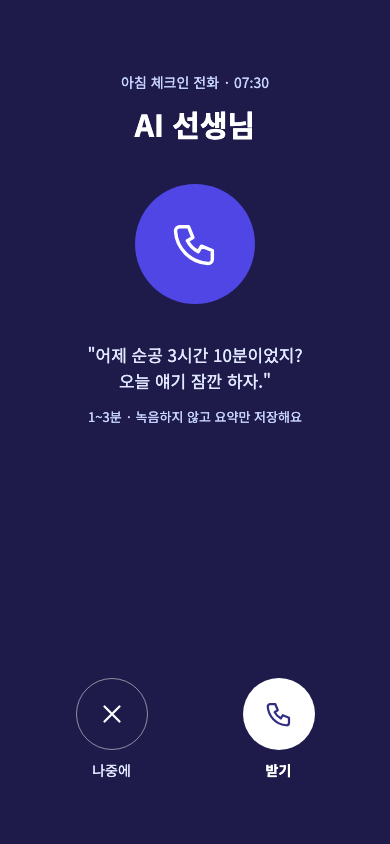
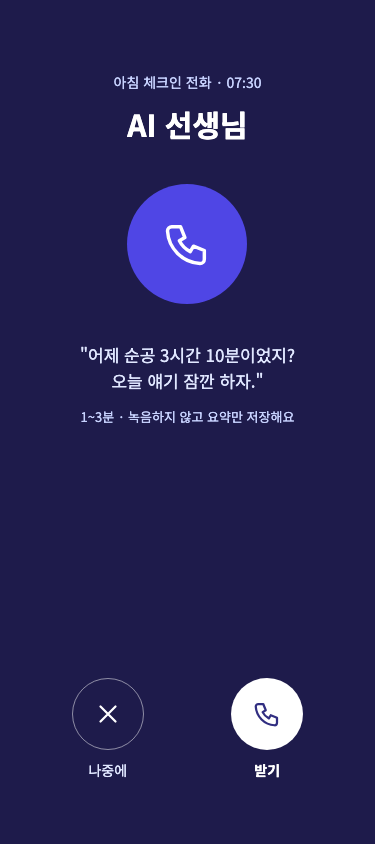
docs: 모바일 시안을 375px 기준으로 맞추고 반응형 안내 추가
모바일 그림 9장을 프로젝트 기준 폭인 375px 로 다시 뽑았습니다 (넘침 없음 확인).
README 에 375px~1280px 사이를 어떻게 만들지 클래스 예시와,
375px 에서 한글이 단어 중간에서 끊기는 곳(break-keep)을 정리했습니다.

diff --git a/docs/design/README.md b/docs/design/README.md
@@ -2,7 +2,8 @@
 
 기획서 v2(2026-10-05)를 바탕으로 그린 **화면 시안**입니다. 피그마 대신 이 폴더의 그림을 보고 화면을 만듭니다.
 
-- 데스크톱: 폭 1280px / 모바일: 폭 390px
+- 데스크톱: 폭 1280px / 모바일: 폭 375px (프로젝트 기준 폭, CLAUDE.md 4장)
+- 그 사이 폭(태블릿)은 그림이 없습니다 → 아래 [반응형으로 만들 때](#반응형으로-만들-때) 를 따릅니다
 - 그림 파일: [`screens/`](./screens/) — 이름 규칙 `<화면>-desktop.png`, `<화면>-mobile.png`
 
 ## 어떻게 쓰나요?
@@ -96,6 +97,29 @@
 
 관련 이슈: #58 설문 틀 · #88 #89 질문 묶음
 
+## 반응형으로 만들 때
+
+시안은 **양 끝 두 폭(375px, 1280px)** 만 그렸습니다. 같은 화면 하나가 폭에 따라 이렇게 바뀌게 만듭니다.
+(접두사 없는 클래스 = 모바일, `sm:` = 640px 이상)
+
+| 시안에서 보이는 차이                         | 이렇게 만든다                                                                            |
+| -------------------------------------------- | ---------------------------------------------------------------------------------------- |
+| 모바일 카드 1열 → 데스크톱 2열               | `grid grid-cols-1 gap-4 sm:grid-cols-2`                                                  |
+| 데스크톱은 제목 옆 버튼 → 모바일은 제목 아래 | `flex flex-col gap-3 sm:flex-row sm:items-center sm:justify-between`                     |
+| 모바일 하단 탭 / 데스크톱 헤더 메뉴          | 이미 `Layout` 에 있습니다. 페이지에서 다시 만들지 않습니다                               |
+| 데스크톱 화면 폭                             | `Layout` 의 `max-w-5xl` 이 정합니다. 페이지에 고정 너비(`w-[1280px]` 등)를 쓰지 않습니다 |
+| 같은 크기 버튼 여러 개 한 줄 (컨디션 1~5)    | `grid grid-cols-5 gap-2` — 375px 에서도 한 줄                                            |
+| 길이가 다른 버튼 여러 개 (미달 원인 7개)     | `flex flex-wrap gap-2` — 넘치면 다음 줄로                                                |
+
+⚠ **375px 에서 한글이 단어 중간에서 끊기는 곳**이 그림에 있습니다.
+체크인의 기분 버튼 "많이 처/짐", "아주 좋/음", 예상 시간 "5시간/+" 입니다. 만들 때는 이렇게 막습니다.
+
+- `break-keep` — 한글을 단어 단위로 줄바꿈 (Tailwind 클래스)
+- 글자를 줄이기 — "아주 좋음" → "최고", "5시간+" → "5+"
+- 그래도 좁으면 `text-xs` 또는 `grid-cols-5` 대신 `flex-wrap`
+
+다 만든 뒤에는 브라우저 `F12` → 휴대폰 아이콘에서 **375px · 768px · 1280px** 세 폭으로 확인합니다.
+
 ## 시안이 없는 화면
 
 아래 화면은 아직 그림이 없습니다. **비슷한 화면의 카드·버튼·간격을 그대로 따라** 만들어 주세요.
@@ -122,5 +146,5 @@
 
 ## 원본
 
-눌러 볼 수 있는 원본 시안은 claude.ai 에 있습니다. 비공개라서, 보려면 관리자(@gusdn3477)에게 공유를 요청하세요.
+눌러 볼 수 있는 원본 시안은 claude.ai 에 있습니다. (원본의 모바일은 390px 로 그려져 있고, 이 폴더의 그림은 375px 로 다시 뽑은 것입니다) 비공개라서, 보려면 관리자(@gusdn3477)에게 공유를 요청하세요.
 그림을 다시 뽑아야 하면(시안 수정 등) 관리자에게 말해 주세요.
